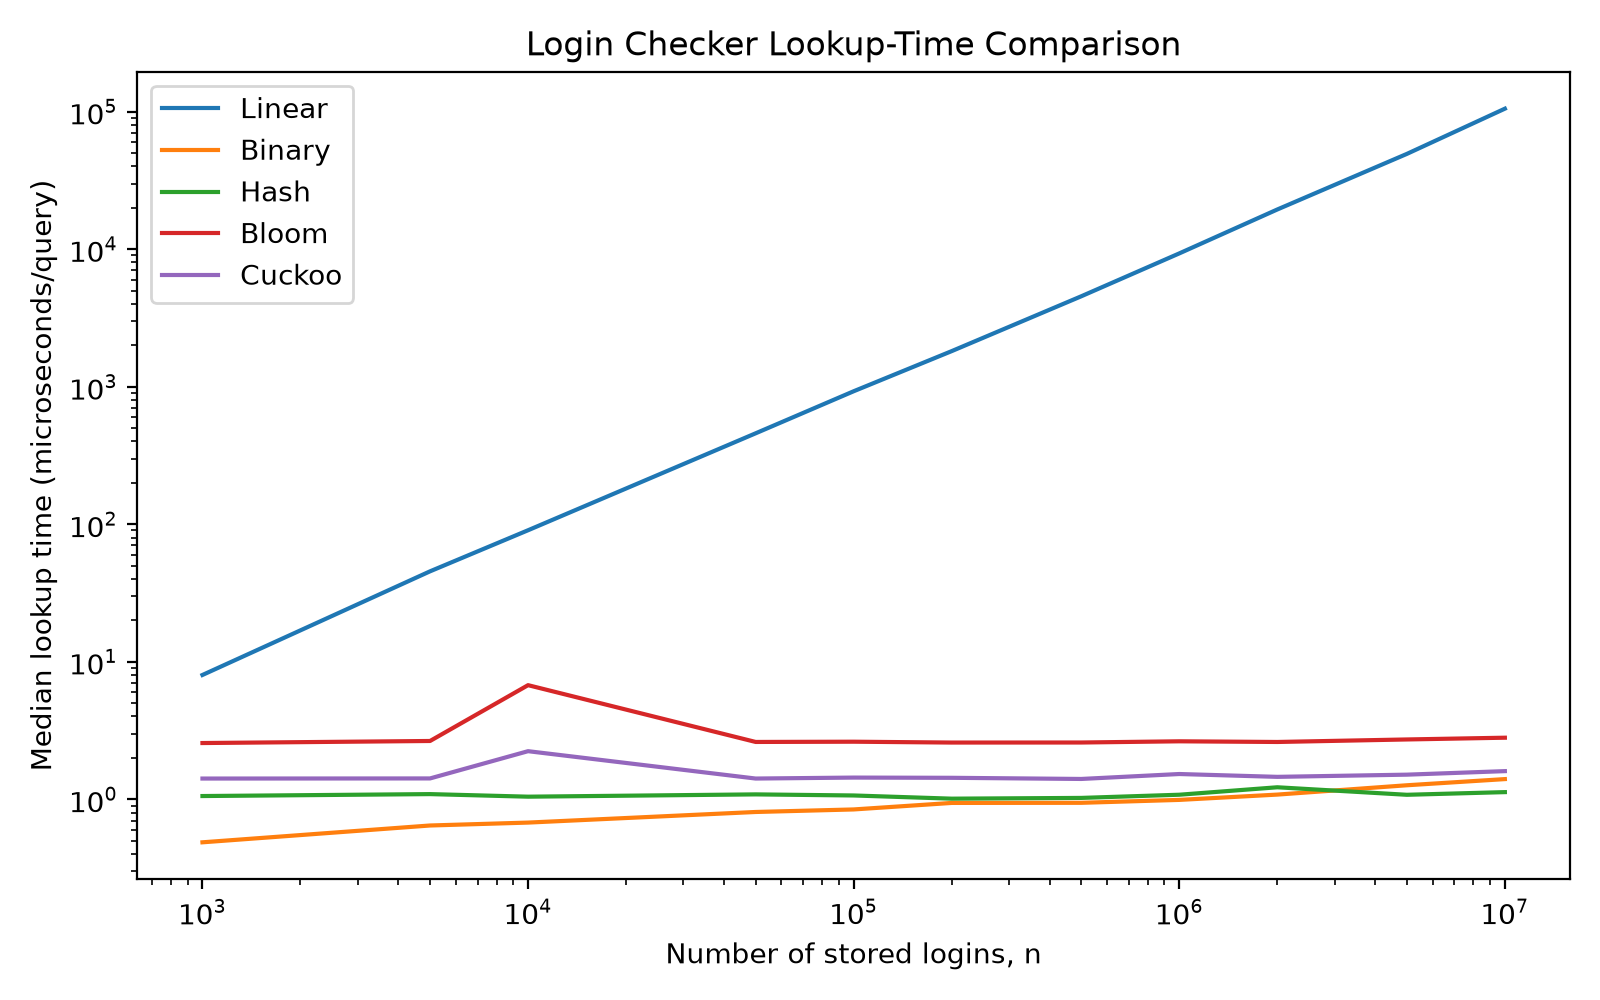
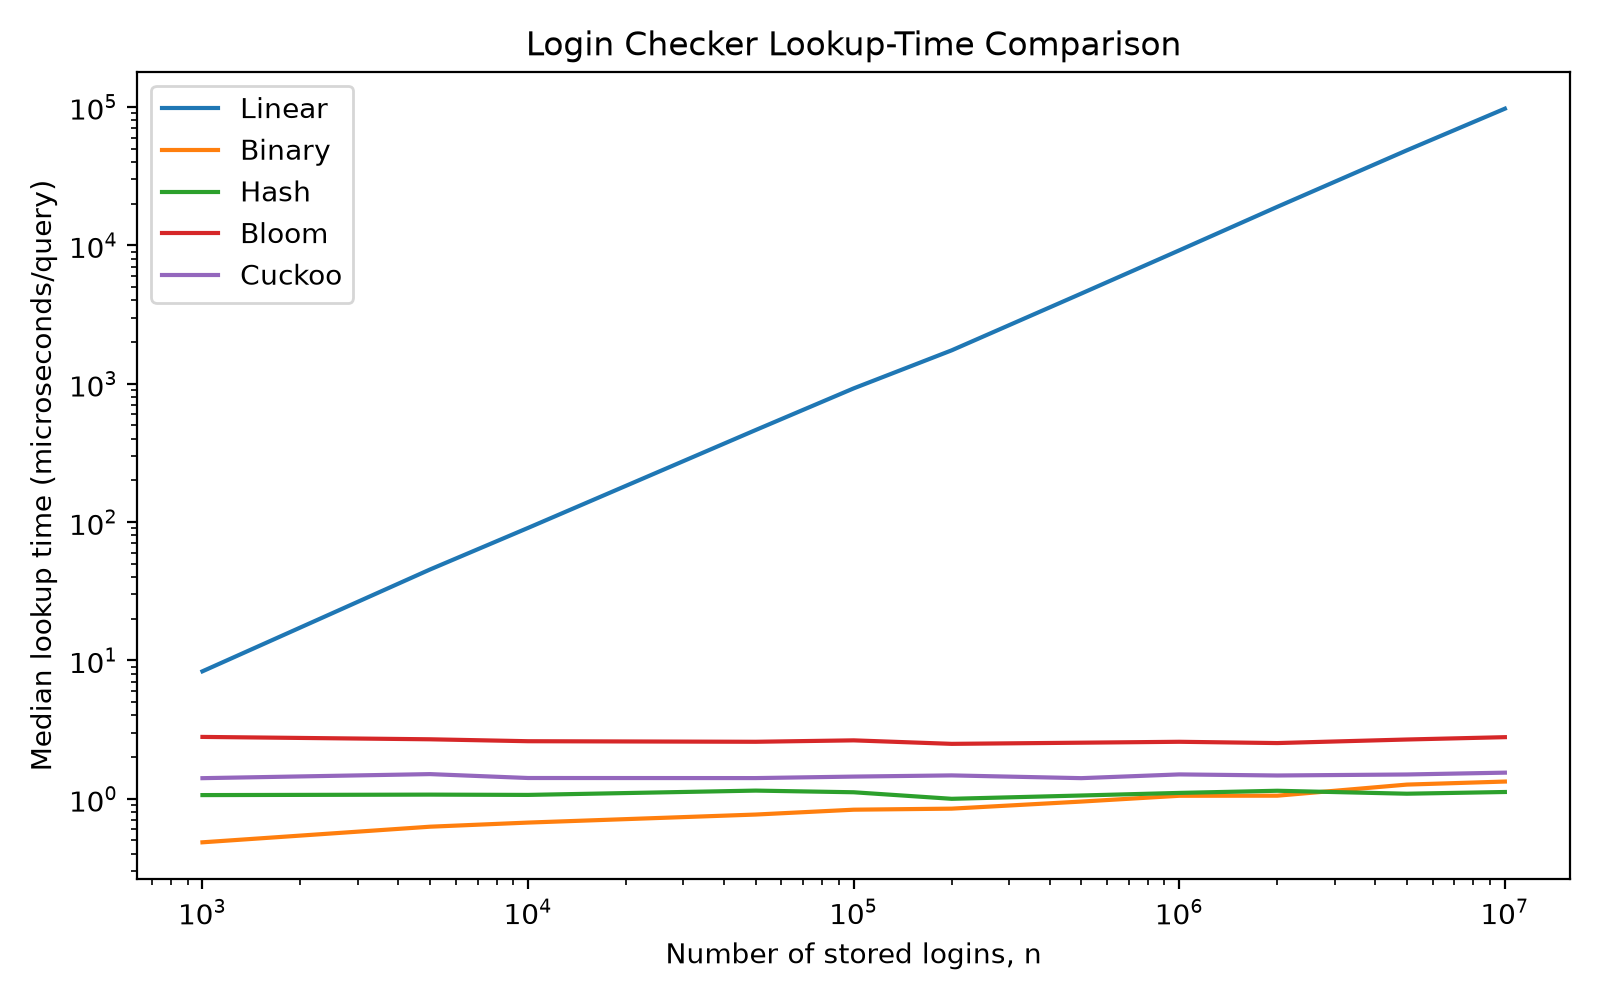
Added comment

diff --git a/algorithms/linear_search.py b/algorithms/linear_search.py
@@ -1,4 +1,6 @@
-# Completed 
+# To find the target value, this approach goes through the list from the beginning and compares each element with the target. 
+# Once a match is found, it returns True. 
+# If the entire list is checked and match is not found, it returns False.
 
 def linear_search(values, target):
     for value in range(len(values)):
